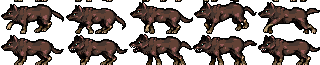
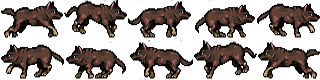
늑대 왼쪽,오른쪽 이동

diff --git a/wolf.py b/wolf.py
@@ -13,10 +13,12 @@ class IdleState:
     def do(wolf):
         if wolf.move_count < 30:
             wolf.frame = (wolf.frame + 1) % 5
+            wolf.dir = 0
             wolf.x -= (wolf.velocity * game_framework.frame_time)
             wolf.move_count += 1
         if wolf.move_count >= 30:
             wolf.frame = (wolf.frame + 1) % 5
+            wolf.dir = 1
             wolf.x += (wolf.velocity * game_framework.frame_time)
             wolf.move_count += 1
         if wolf.move_count == 60:
@@ -24,7 +26,10 @@ class IdleState:
 
     @staticmethod
     def draw(wolf):
-        wolf.image.clip_draw(wolf.frame * 64, 0, 64, 40, wolf.x, wolf.y)
+        if wolf.dir == 0:
+            wolf.image.clip_draw(wolf.frame * 64, 0, 64, 40, wolf.x, wolf.y)
+        else:
+            wolf.image.clip_draw(wolf.frame * 64, 40, 64, 40, wolf.x, wolf.y)
 
 
 class WolfScrollState:
@@ -32,10 +37,12 @@ class WolfScrollState:
     def do(wolf):
         if wolf.move_count < 30:
             wolf.frame = (wolf.frame + 1) % 5
+            wolf.dir = 0
             wolf.x -= 2 * (wolf.velocity * game_framework.frame_time)
             wolf.move_count += 1
         if wolf.move_count >= 30:
             wolf.frame = (wolf.frame + 1) % 5
+            wolf.dir = 1
             wolf.x += 0
             wolf.move_count += 1
         if wolf.move_count == 60:
@@ -43,18 +50,22 @@ class WolfScrollState:
 
     @staticmethod
     def draw(wolf):
-        wolf.image.clip_draw(wolf.frame * 64, 0, 64, 40, wolf.x, wolf.y)
+        if wolf.dir == 0:
+            wolf.image.clip_draw(wolf.frame * 64, 0, 64, 40, wolf.x, wolf.y)
+        else:
+            wolf.image.clip_draw(wolf.frame * 64, 40, 64, 40, wolf.x, wolf.y)
 
 
 class Wolf:
 
     def __init__(self):
         self.x, self.y = 1400, 66
-        self.image = load_image('./Resource/wolf1.png')
+        self.image = load_image('./Resource/wolf.png')
         self.frame = 0
         self.velocity = RUN_SPEED_PPS
         self.move_count = 0
         self.cur_state = IdleState
+        self.dir = 0
 
     def update(self):
         self.cur_state.do(self)
